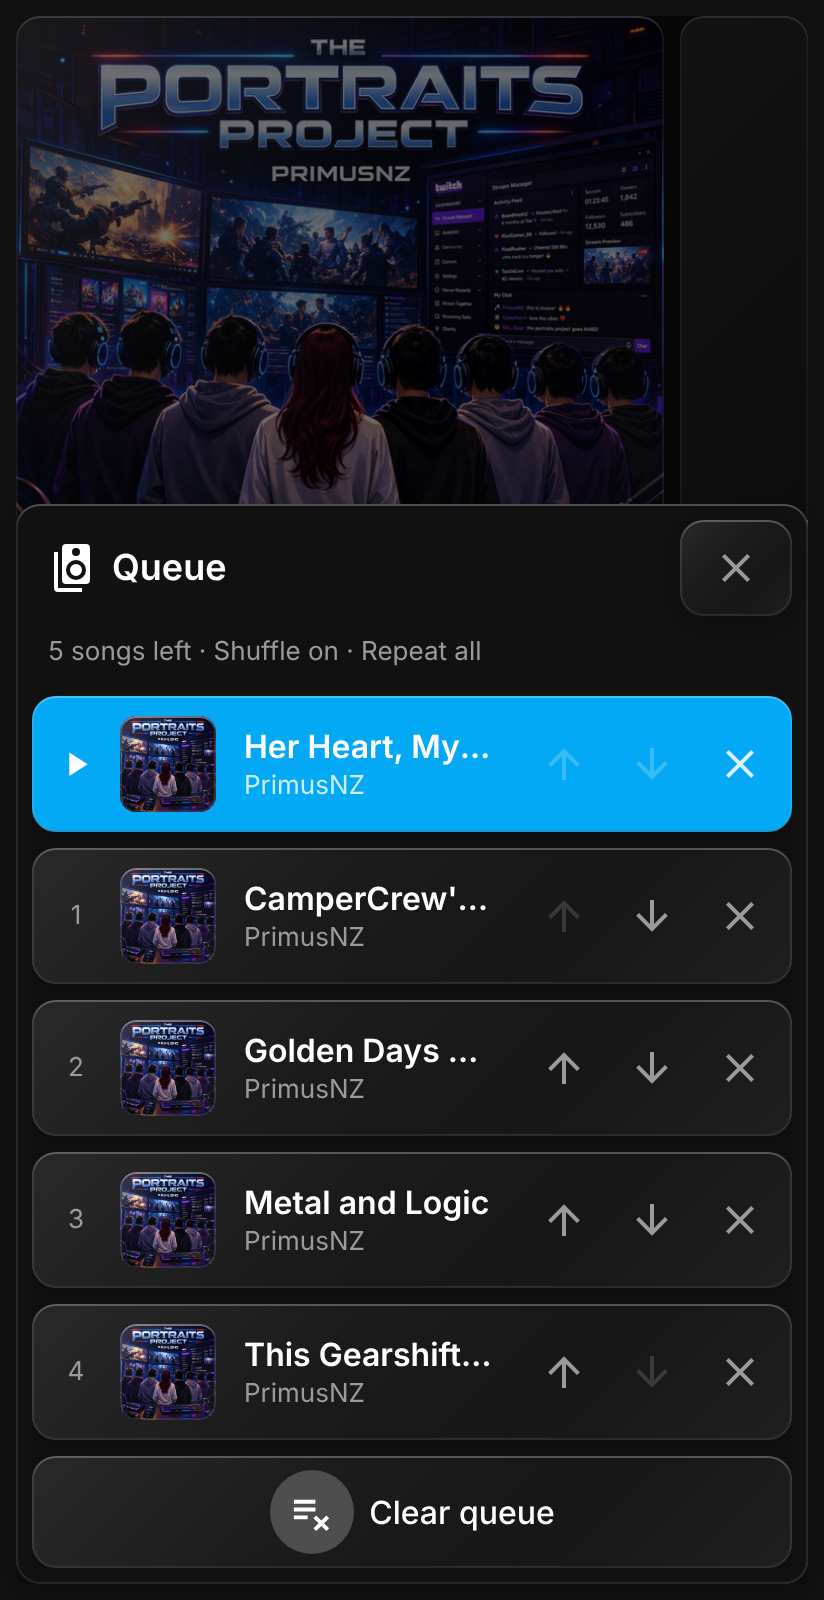
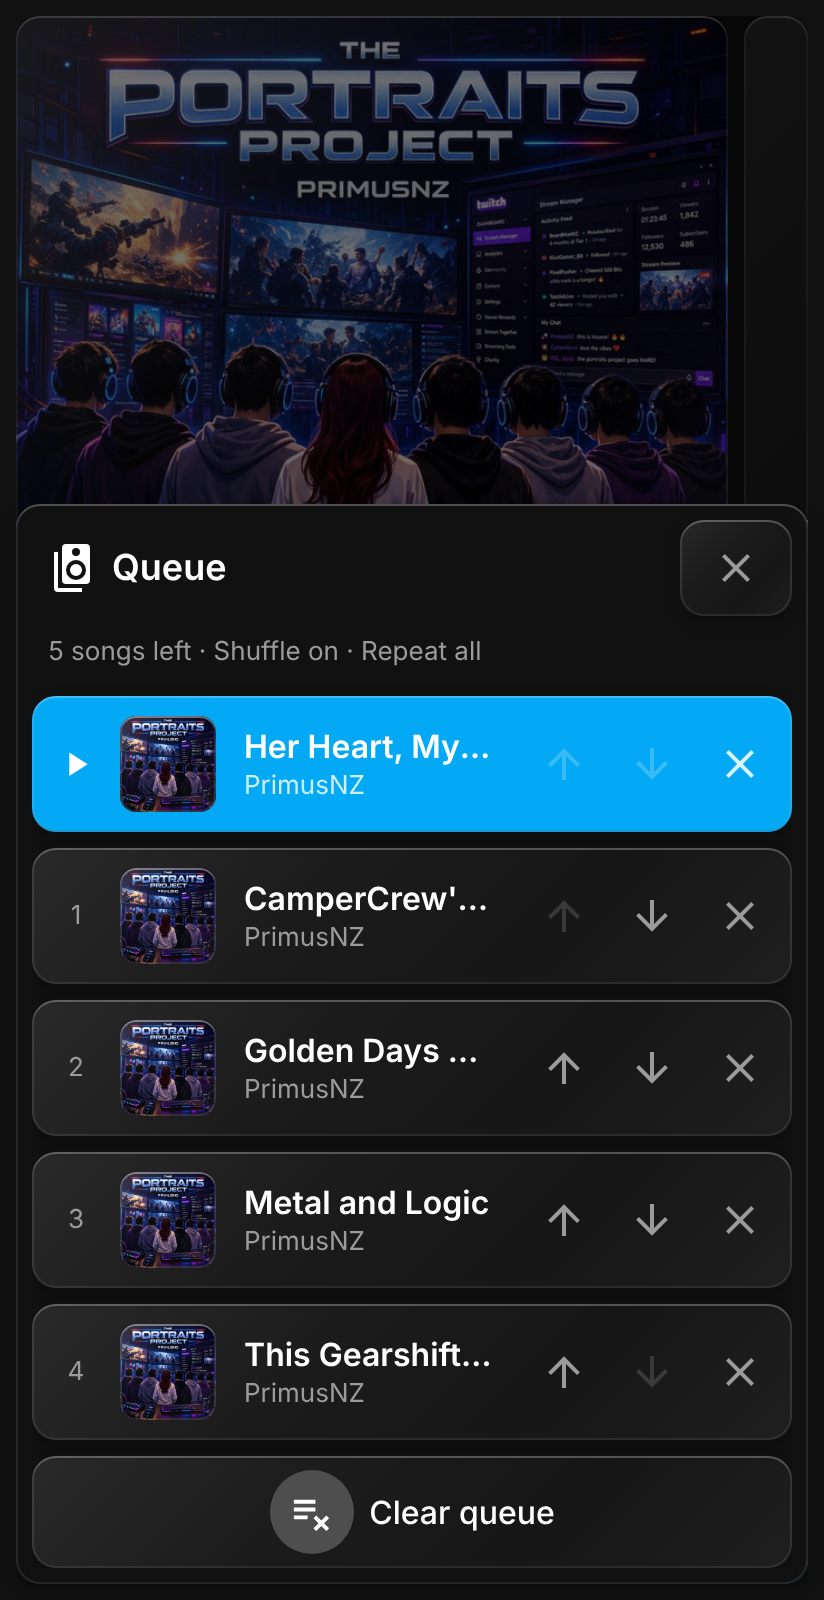
Add horizontal_volume option, 32px volume bar, refreshed screenshots

Changed region(s): [[0.0, 0.0, 0.9102, 0.3125]]

diff --git a/touch-media-card.js b/touch-media-card.js
@@ -14,7 +14,7 @@
  *
  * Card options: entity_id, priority_player, priority_name, discover,
  * media_players, config_entry_id, ma_url, ma_token, template, variables, glass,
- * always_show_volume.
+ * always_show_volume, horizontal_volume.
  * entity_id, priority_player and media_players entries may be button-card
  * style [[[ ... ]]] templates.
  *
@@ -42,6 +42,8 @@
   const SHEET_ROW_PX = 56;
   // Height of the mute button at the bottom of the volume bar.
   const VOL_MUTE_PX = 64;
+  // Thickness of the volume bar: its width, or its height with horizontal_volume.
+  const VOL_BAR_PX = 32;
 
   // Colour tokens: the Kiosk dashboard's --kiosk-* variables when present,
   // otherwise the Home Assistant theme.
@@ -79,7 +81,7 @@
   position: relative;
   box-sizing: border-box;
   display: grid;
-  grid-template-columns: minmax(0, 1fr) 64px;
+  grid-template-columns: minmax(0, 1fr) ${VOL_BAR_PX}px;
   gap: var(--ktm-gap);
   width: 100%;
   height: 100%;
@@ -727,16 +729,28 @@ button {
     }
     .vol-pct {
       position: absolute; top: 10px; left: 0; right: 0; z-index: 1; text-align: center;
-      font-size: 15px; font-weight: 700; color: #fff; text-shadow: 0 1px 3px rgba(0, 0, 0, 0.7);
+      font-size: 12px; font-weight: 700; color: #fff; text-shadow: 0 1px 3px rgba(0, 0, 0, 0.7);
       opacity: 0; transition: opacity 0.2s; pointer-events: none;
     }
     .vol-pct.show { opacity: 1; }
+    .vol-hit { left: 0; right: 0; bottom: 0; height: ${VOL_MUTE_PX}px; }
+    :host([hvol]) .vol-hit { right: auto; top: 0; width: ${VOL_MUTE_PX}px; height: auto; }
     .vol-icon {
-      position: absolute; left: 50%; bottom: 13px; width: 38px; height: 38px; margin-left: -19px;
+      position: absolute; left: 50%; bottom: ${(VOL_MUTE_PX - 26) / 2}px; width: 26px; height: 26px; margin-left: -13px;
       border-radius: 50%; display: grid; place-items: center; background: rgba(0, 0, 0, 0.34);
       pointer-events: none;
     }
-    .vol-icon ha-icon { --mdc-icon-size: 24px; color: var(--ktm-text-primary, #fff); }
+    .vol-icon ha-icon { --mdc-icon-size: 18px; color: var(--ktm-text-primary, #fff); }
+    /* horizontal_volume: the bar runs along the bottom, left to right, with
+       the mute button at its left end. */
+    :host([hvol]) .shell {
+      grid-template-columns: minmax(0, 1fr);
+      grid-template-rows: minmax(0, 1fr) ${VOL_BAR_PX}px;
+    }
+    :host([hvol]) #volume { height: ${VOL_BAR_PX}px; }
+    :host([hvol]) .vol-fill { inset: 0 auto 0 0; height: auto; width: ${VOL_MUTE_PX}px; }
+    :host([hvol]) .vol-pct { font-size: 15px; top: 50%; left: auto; right: 16px; width: auto; transform: translateY(-50%); }
+    :host([hvol]) .vol-icon { left: 13px; bottom: auto; top: 50%; margin: -13px 0 0; }
     /* Narrow (phone) width: in the Browse music / player picker row the icon
        sits above the label, smaller, so the label is not cut off. */
     @container (max-width: 480px) {
@@ -795,6 +809,7 @@ button {
       this.config = config;
       this.syncGlass();
       this.renderShell();
+      this.toggleAttribute('hvol', config.horizontal_volume === true);
       // Redraw the volume so a changed always_show_volume takes effect.
       this.volPaint = '';
       if (!config.always_show_volume) {
@@ -1453,8 +1468,11 @@ button {
         // The strip at the bottom is the mute button; the level runs from its
         // top edge to the top of the bar.
         const rect = vol.getBoundingClientRect();
-        const span = rect.height - VOL_MUTE_PX;
-        const ratio = span > 0 ? (rect.bottom - VOL_MUTE_PX - event.clientY) / span : 0;
+        const horizontal = this.hasAttribute('hvol');
+        const span = (horizontal ? rect.width : rect.height) - VOL_MUTE_PX;
+        const ratio = span <= 0 ? 0 : horizontal
+          ? (event.clientX - rect.left - VOL_MUTE_PX) / span
+          : (rect.bottom - VOL_MUTE_PX - event.clientY) / span;
         return Math.min(1, Math.max(0, ratio));
       };
       let sentAt = 0;
@@ -1493,7 +1511,8 @@ button {
       vol.addEventListener('pointercancel', event => finish(event, false));
       vol.addEventListener('click', event => event.stopPropagation());
       const hit = document.createElement('div');
-      hit.style.cssText = 'position:absolute;left:0;right:0;bottom:0;height:' + VOL_MUTE_PX + 'px;z-index:2;cursor:pointer;touch-action:manipulation;';
+      hit.className = 'vol-hit';
+      hit.style.cssText = 'position:absolute;z-index:2;cursor:pointer;touch-action:manipulation;';
       this.bindTap(hit, () => this.toggleMute());
       holder.append(hit);
     }
@@ -1519,7 +1538,7 @@ button {
         else root.getElementById('vol-pct').classList.remove('show');
       } else if (this.volPct !== undefined && pct !== this.volPct) this.flashVolume(pct, false);
       this.volPct = pct;
-      root.getElementById('vol-fill').style.height =
+      root.getElementById('vol-fill').style[this.hasAttribute('hvol') ? 'width' : 'height'] =
         `calc(${VOL_MUTE_PX}px + (100% - ${VOL_MUTE_PX}px) * ${level.toFixed(3)})`;
       const icon = root.getElementById('vol-icon');
       // Muted: crossed-out speaker; otherwise the icon follows the level.
@@ -2281,6 +2300,7 @@ button {
     media_players: 'Players to offer',
     glass: 'Glass look',
     always_show_volume: 'Always show the volume %',
+    horizontal_volume: 'Horizontal volume bar',
     config_entry_id: 'Music Assistant config entry ID',
     ma_url: 'Music Assistant server address',
     ma_token: 'Music Assistant API token'
@@ -2291,6 +2311,7 @@ button {
     priority_name: 'Label for the priority player. Leave empty to use its own name.',
     discover: 'Turn off to list only the players you pick below.',
     always_show_volume: 'Keep the volume percentage on the volume bar instead of fading it out.',
+    horizontal_volume: 'Put the volume bar along the bottom, full width, running left to right.',
     ma_url: 'Needed for the full queue view, e.g. http://192.168.1.10:8095',
     ma_token: 'Music Assistant API token (stored in the dashboard config).',
     config_entry_id: 'Only needed if it cannot be found automatically.'
@@ -2298,7 +2319,7 @@ button {
   // Options this editor manages; anything else in the config (type, template,
   // variables, ...) is passed through untouched.
   const EDITOR_KEYS = ['entity_id', 'priority_player', 'priority_name', 'discover',
-    'media_players', 'glass', 'always_show_volume', 'config_entry_id', 'ma_url', 'ma_token'];
+    'media_players', 'glass', 'always_show_volume', 'horizontal_volume', 'config_entry_id', 'ma_url', 'ma_token'];
 
   class TouchMediaCardEditor extends HTMLElement {
     setConfig(config) {
@@ -2330,6 +2351,7 @@ button {
           selector: {entity: {domain: 'media_player', multiple: true}}}]),
         {name: 'glass', selector: {boolean: {}}},
         {name: 'always_show_volume', selector: {boolean: {}}},
+        {name: 'horizontal_volume', selector: {boolean: {}}},
         {type: 'expandable', name: '', title: 'Music Assistant (queue view and browsing)',
           schema: [
             {name: 'ma_url', selector: {text: {}}},
@@ -2356,7 +2378,8 @@ button {
         ...this._config,
         discover: this._config.discover !== false,
         glass: this._config.glass !== false,
-        always_show_volume: this._config.always_show_volume === true
+        always_show_volume: this._config.always_show_volume === true,
+        horizontal_volume: this._config.horizontal_volume === true
       };
       this._form.schema = this.schema();
     }
@@ -2369,7 +2392,7 @@ button {
           (Array.isArray(v) && !v.length);
         // Defaults are left out so the saved config stays short.
         if (empty || (key === 'discover' && v === true) || (key === 'glass' && v === true) ||
-            (key === 'always_show_volume' && v === false)) {
+            ((key === 'always_show_volume' || key === 'horizontal_volume') && v === false)) {
           delete config[key];
         } else {
           config[key] = v;

diff --git a/README.md b/README.md
@@ -41,7 +41,7 @@ A touch-first media player card for Home Assistant, made for wall tablets and ki
 | <img src="assets/landscape-queue.png" alt="Queue"><br>**Queue** | <img src="assets/landscape-browse-search.png" alt="Browse music: search"><br>**Browse music: search** |
 | <img src="assets/landscape-browse-albums.png" alt="Browse music: albums"><br>**Browse music: albums** | <img src="assets/landscape-glass-off.png" alt="Glass off"><br>**Glass off** |
 | <img src="assets/landscape-paused-muted.png" alt="Paused and muted"><br>**Paused and muted** | <img src="assets/landscape-nothing-playing.png" alt="Nothing playing"><br>**Nothing playing** |
-| <img src="assets/landscape-volume-always.png" alt="Volume % always shown"><br>**Volume % always shown** |  |
+| <img src="assets/landscape-volume-always.png" alt="Volume % always shown"><br>**Volume % always shown** | <img src="assets/landscape-volume-horizontal.png" alt="Horizontal volume bar"><br>**Horizontal volume bar** |
 
 ### Portrait
 
@@ -50,6 +50,7 @@ A touch-first media player card for Home Assistant, made for wall tablets and ki
 | <img src="assets/portrait-now-playing.png" alt="Now playing"><br>**Now playing** | <img src="assets/portrait-player-picker.png" alt="Player picker"><br>**Player picker** | <img src="assets/portrait-queue.png" alt="Queue"><br>**Queue** |
 | <img src="assets/portrait-browse-search.png" alt="Browse music: search"><br>**Browse music: search** | <img src="assets/portrait-browse-albums.png" alt="Browse music: albums"><br>**Browse music: albums** | <img src="assets/portrait-glass-off.png" alt="Glass off"><br>**Glass off** |
 | <img src="assets/portrait-paused-muted.png" alt="Paused and muted"><br>**Paused and muted** | <img src="assets/portrait-nothing-playing.png" alt="Nothing playing"><br>**Nothing playing** | <img src="assets/portrait-volume-always.png" alt="Volume % always shown"><br>**Volume % always shown** |
+| <img src="assets/portrait-volume-horizontal.png" alt="Horizontal volume bar"><br>**Horizontal volume bar** |  |  |
 
 <br>
 
@@ -136,6 +137,7 @@ discover: true
 | `variables` | object | Optional | none | Variables for use in templates. They override those from `template`. |
 | `glass` | boolean | Optional | `true` | The glass look: a translucent surface and rim on the card's tiles, and a sheen on the progress and volume fills, highlighted buttons, selected player, artwork and thumbnails. Set `false` for flat tiles. |
 | `always_show_volume` | boolean | Optional | `false` | Keep the volume percentage on the volume bar all the time. By default it shows while you drag the bar and fades five seconds after the level last changes. |
+| `horizontal_volume` | boolean | Optional | `false` | Move the volume bar to the bottom of the card, full width, running left to right with the mute button at its left end. By default it is a vertical bar on the right. |
 
 If neither `entity_id` nor a usable `priority_player` is set, the card shows the first available player (preferring one that is playing) until you pick another.
 
